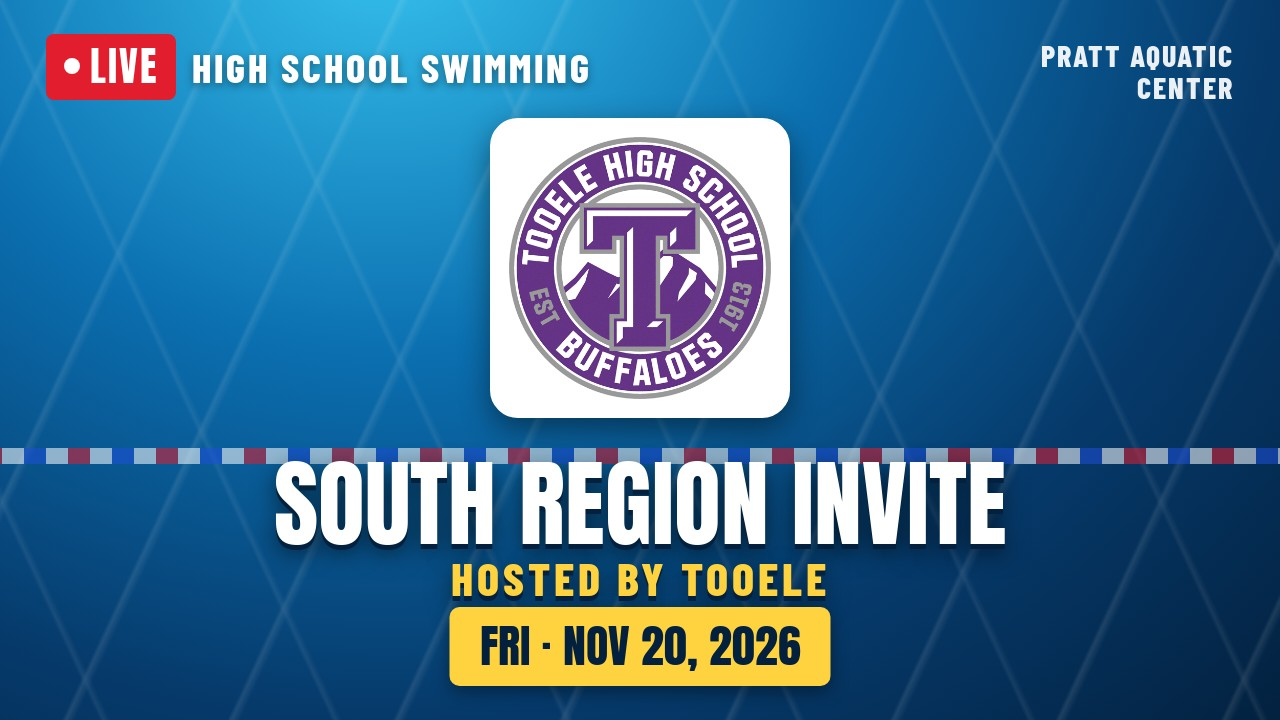
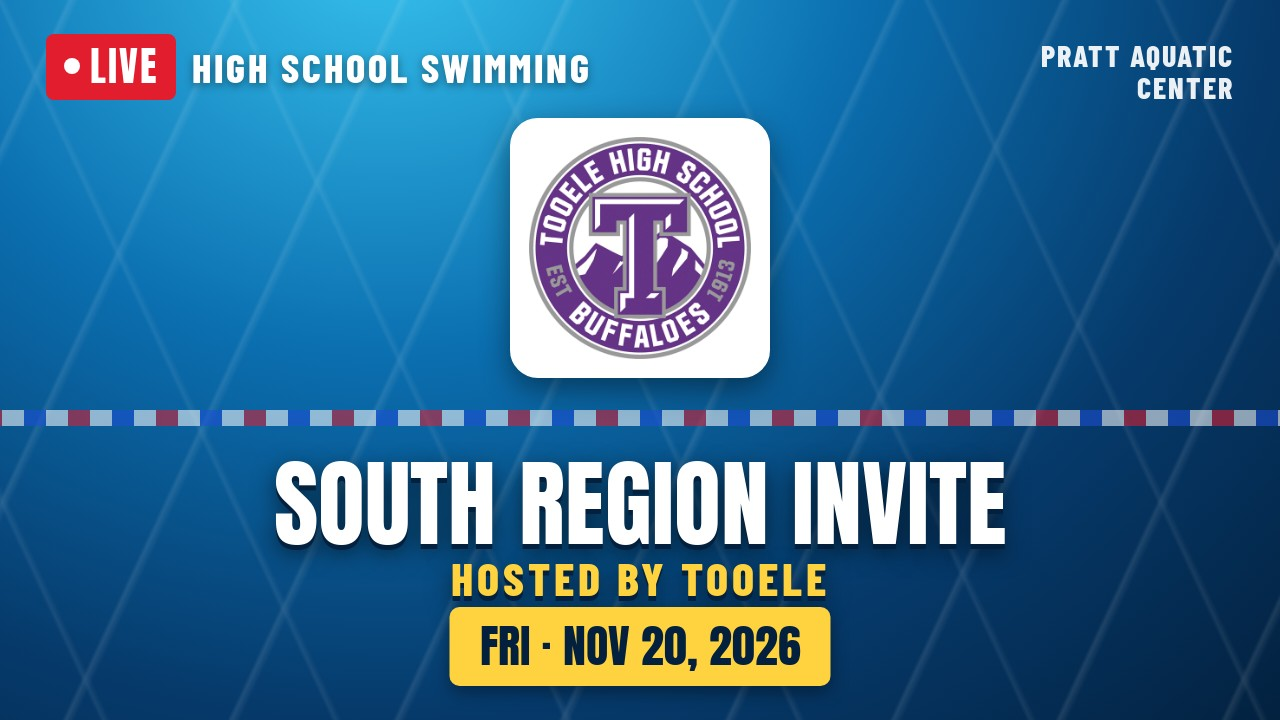
Keep the lane rope clear of the title
Claude-Session: https://claude.ai/code/session_015ddQdB4MUmMnFLo4eFxp9a

Changed region(s): [[0.0, 0.1528, 1.0, 0.6722]]

diff --git a/make.py b/make.py
@@ -71,7 +71,7 @@ def page(m):
     if big and "QUAD" in big:
         teams = ["Tooele", "Stansbury", "Grantsville", "Deseret Peak"]
     n = len(teams)
-    size = {1: 300, 2: 260, 3: 220, 4: 200}[n]
+    size = {1: 260 if sub else 300, 2: 260, 3: 220, 4: 200}[n]
     parts = []
     for i, t in enumerate(teams):
         if i:
@@ -80,11 +80,13 @@ def page(m):
         parts.append(tile(t, size))
     if not big:
         big = (" & ".join(vis) + " @ " + host)
-    fs = 112 if len(big) <= 18 else 96 if len(big) <= 24 else 80 if len(big) <= 32 else 66
     subhtml = f'<span class="sub">{sub}</span>' if sub else ""
+    fs = 112 if len(big) <= 18 else 96 if len(big) <= 24 else 80 if len(big) <= 32 else 66
     lane_y = max(118 + size + 30, 410)
+    title_top = 720 - 118 - int(fs * 1.02) - (52 if sub else 0)
+    lane_css = "" if lane_y + 16 < title_top - 12 else "display:none;"
     return f"""<!doctype html><html><head><meta charset="utf-8"><style>{CSS}</style></head><body>
-<div class="water"></div><div class="lane" style="top:{lane_y}px;opacity:.55"></div>
+<div class="water"></div><div class="lane" style="{lane_css}top:{lane_y}px;opacity:.55"></div>
 <div class="top"><div class="live"><i></i>LIVE</div><div class="kick">HIGH SCHOOL SWIMMING</div></div>
 <div class="venue">PRATT AQUATIC<br>CENTER</div>
 <div class="logos">{''.join(parts)}</div>
